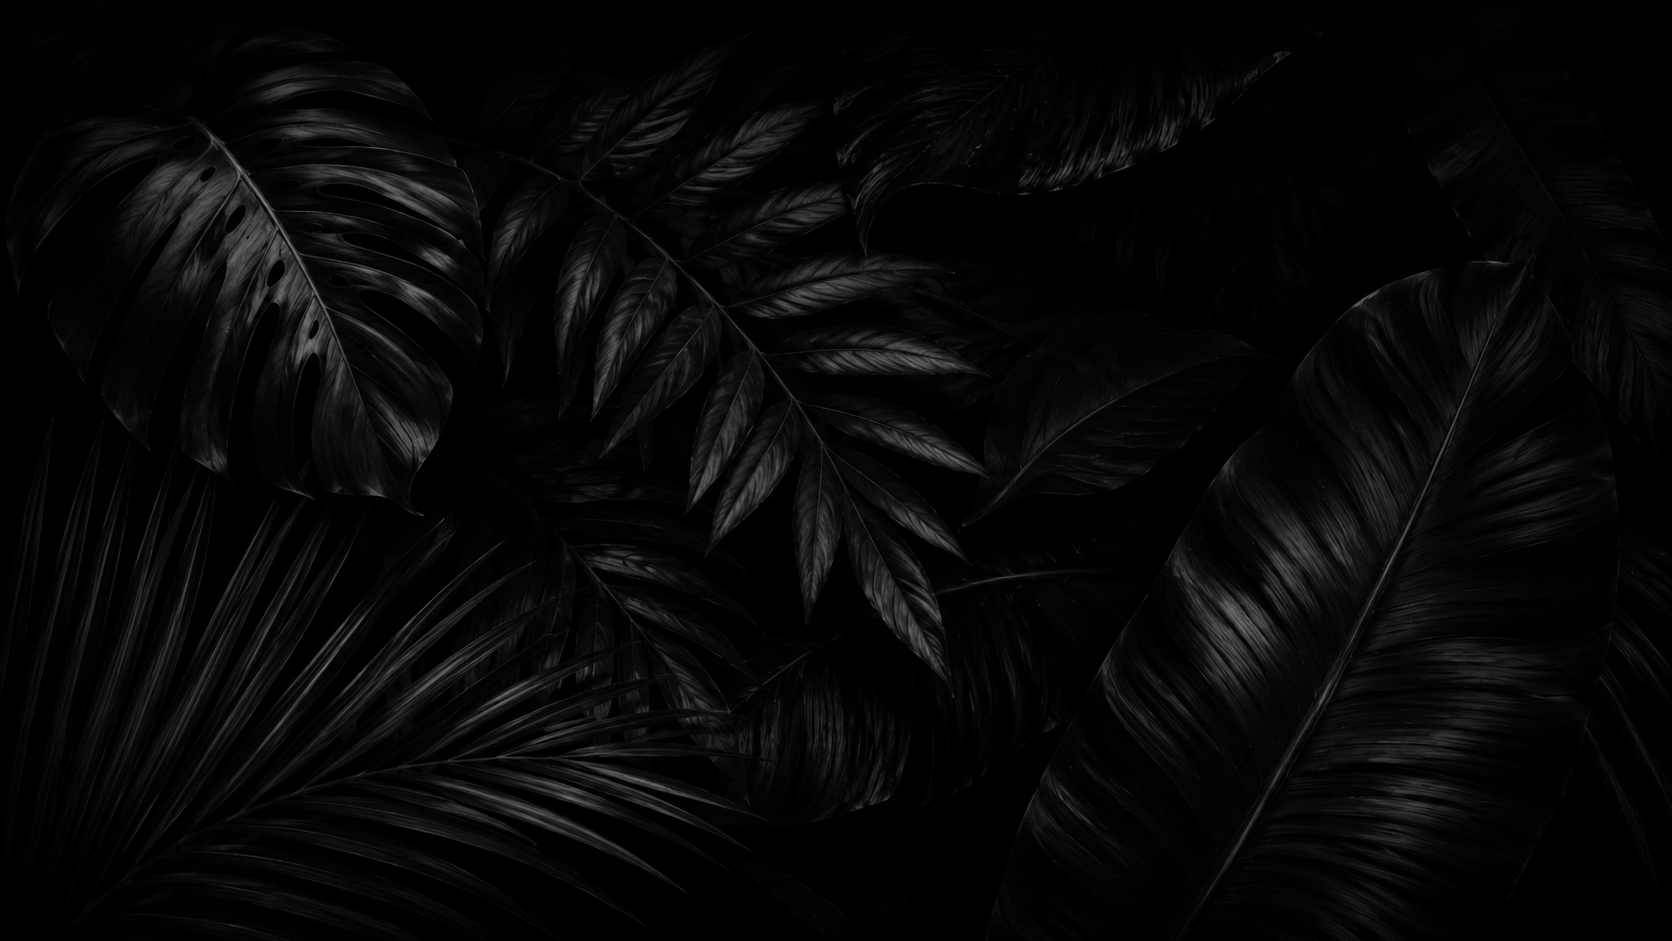
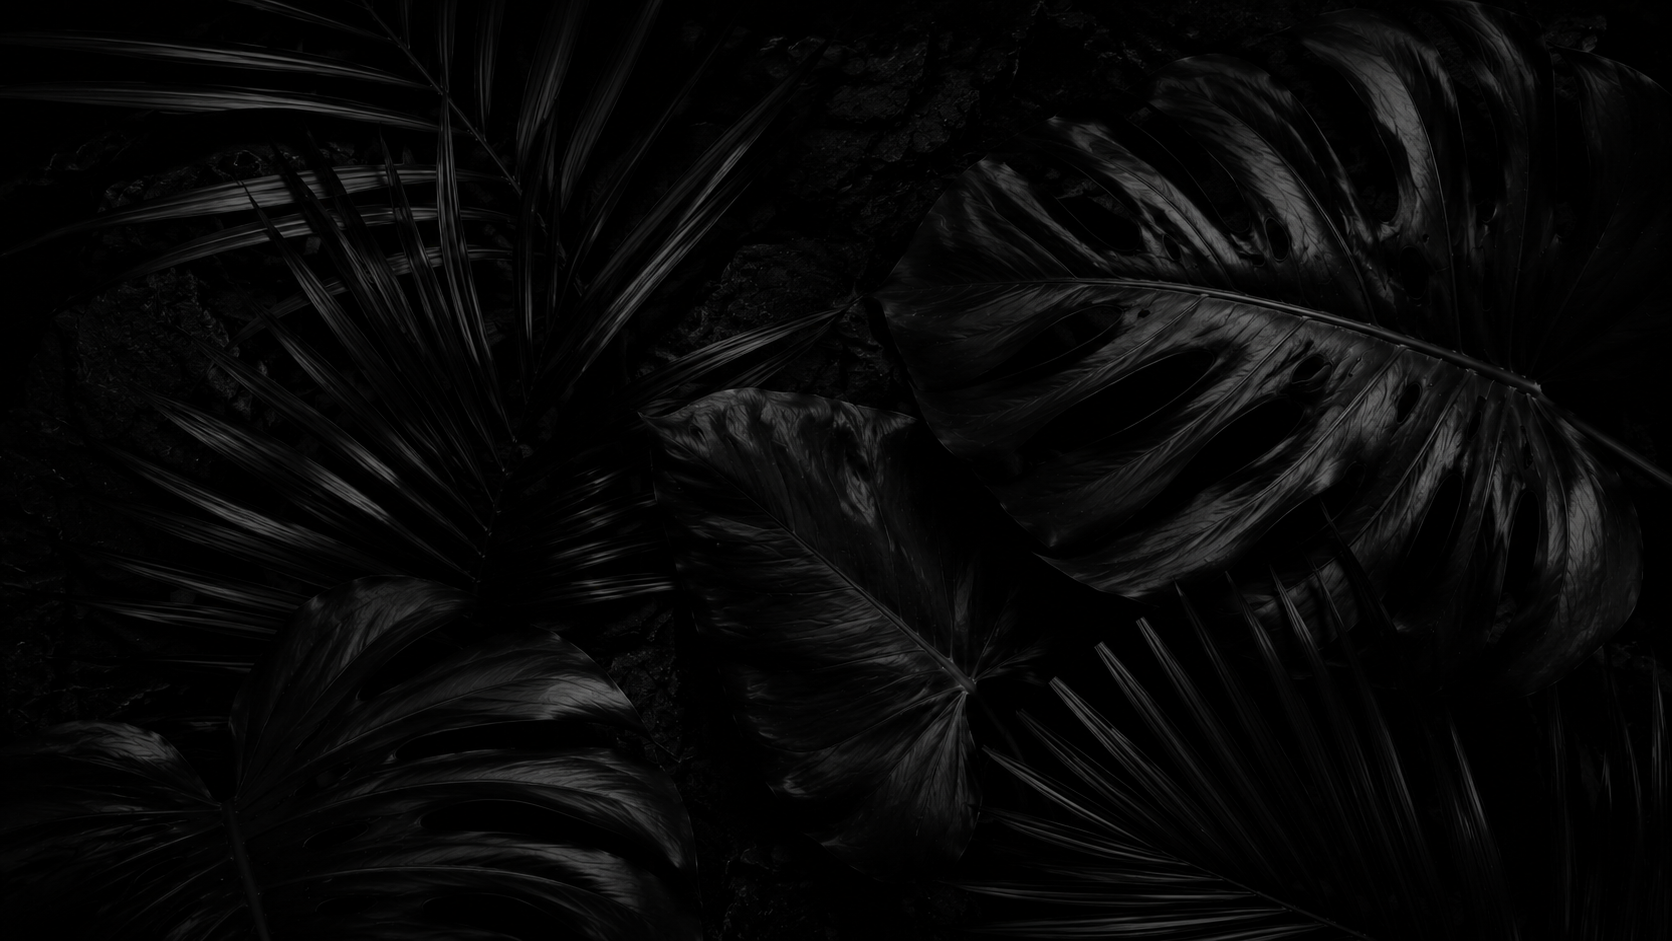
atualizei as imgs

diff --git a/css/tarefas.css b/css/tarefas.css
@@ -2,7 +2,7 @@ body{
   margin: 0;
   overflow:hidden;
   height: 100vh;
-  background-image:url("../img/img-tarefas.png");
+  background-image:url("../img/img-Tarefas.png");
   background-size: cover;
   background-position: center;
   background-repeat: no-repeat;

diff --git a/css/projetos.css b/css/projetos.css
@@ -2,7 +2,7 @@ body{
   margin: 0;
   overflow:hidden;
   height: 100vh;
-  background-image:url("../img/img-.png");
+  background-image:url("../img/img-tarefas.png");
   background-size: cover;
   background-position: center;
   background-repeat: no-repeat;
